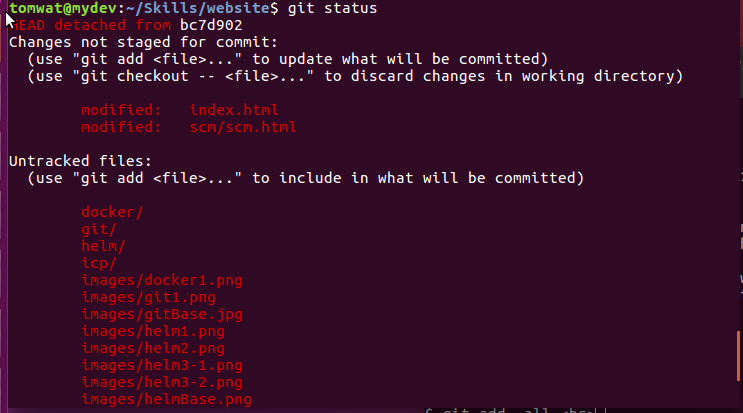
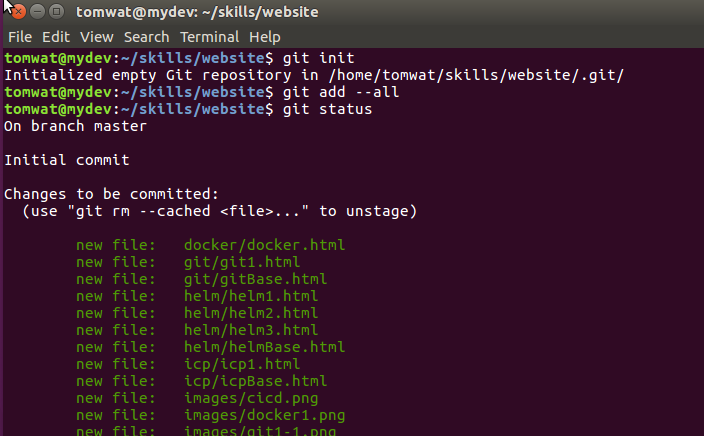
updated git html

diff --git a/git/git1.html b/git/git1.html
@@ -12,35 +12,38 @@ https://github.com/tomwat/website.git <br>
 </p>
 
 <p>
-tomwat@mydev:~/Skills/website <br>
+// cd to where your files are - /home/tomwat/skills/website <br>
+$ git init <br>
+// Initialized empty Git repository in /home/tomwat/skills/website/.git/ <br>
+<br>
+$ git add --all <br>
+$ git commit -m "initial commit - Dec 14 2018" <br>
+<br>
+// now my local repository is up to date <br>
+// how to push to remote github? <br>
+// create the remote repository on github.com - tomwat/website <br>
+<br>
+// back on workstaion <br>
+$ git remote add origin https://github.com/tomwat/website.git <br>
+$ git push -u origin master <br>
+ <br>
+// verify files are now replicated on remote github <br>
+// other commands.... <br>
 // show my untracked files and uncomitted files in my local git repo <br> 
 $ git status <br>
 // add all my newly created artifacts to my local repo <br>
-$ git add -all <br>
+$ git add file <br>
 // commit all my recent work with message <br>
 $ git commit -m "Dec 14 2018 - large commit" <br>
-$ git status 
+$ git status <br>
 <br>
 </p>
 <p>
-Now that my local Git is all caught up, I want to replicate to my Web Git. <br>
-At github.com, I have created a new repository called tomwat/website. <br>
-This is the URL --> https://github.com/tomwat/website.git <br>
-<br>
-//from this directory <br>
-tomwat@mydev:~/Skills/website <br>
-$ git remote add origin https://github.com/tomwat/website.git <br>
-$ git push -u origin master <br>
-//from now on, I replicate this way <br>
-
+<img src="../images/git1-1.png" alt="Git add" width="800" height="600"> <br>
+<img src="../images/git1-2.png" alt="Git commit" width="800" height="600"> <br>
+<img src="../images/git1-3.png" alt="Git push to remote" width="800" height="600"> <br>
+<img src="../images/git1-4.png" alt="Git remote contents" width="800" height="600"> <br>
 </p>
-
-</p>
-<img src="../images/git1-1.png" alt="Git status" width="800" height="600"> <br>
-<img src="../images/git1-2.png" alt="Git add" width="800" height="600"> <br>
-<img src="../images/git1-3.png" alt="Git commit" width="800" height="600"> <br>
-<img src="../images/git1-4.png" alt="Git push" width="800" height="600"> <br>
-<p>
 
 </body>
 </html>
